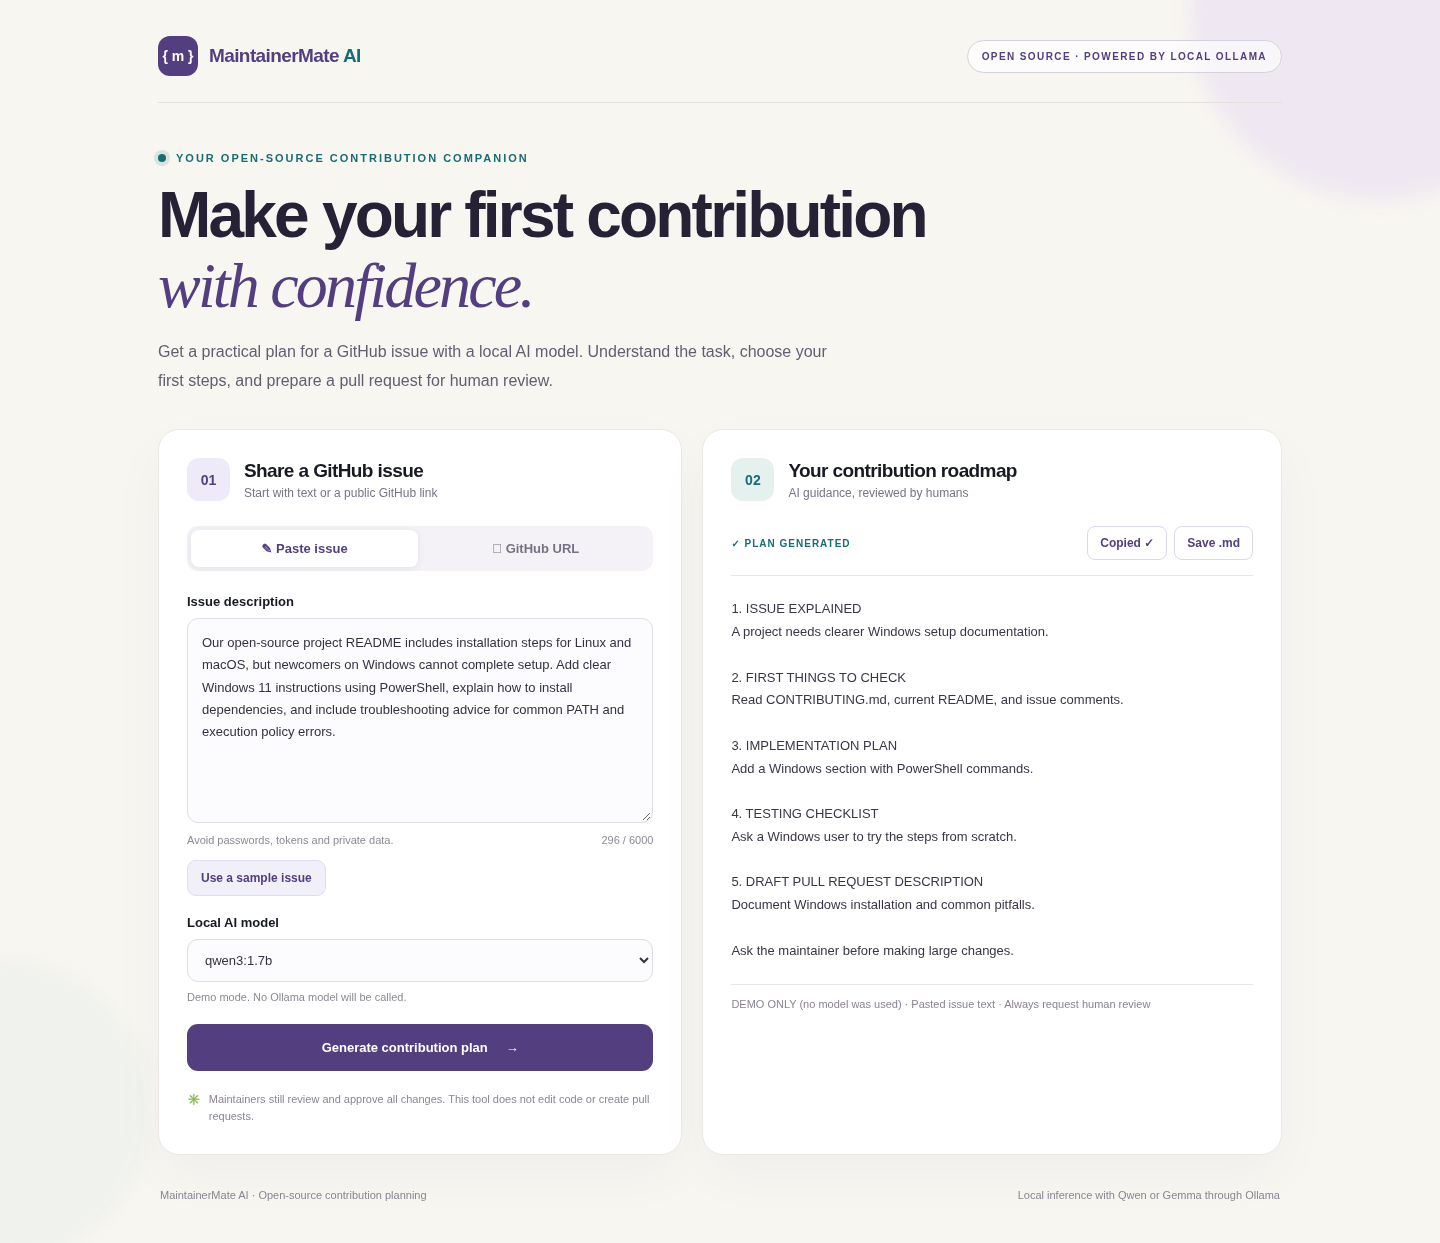
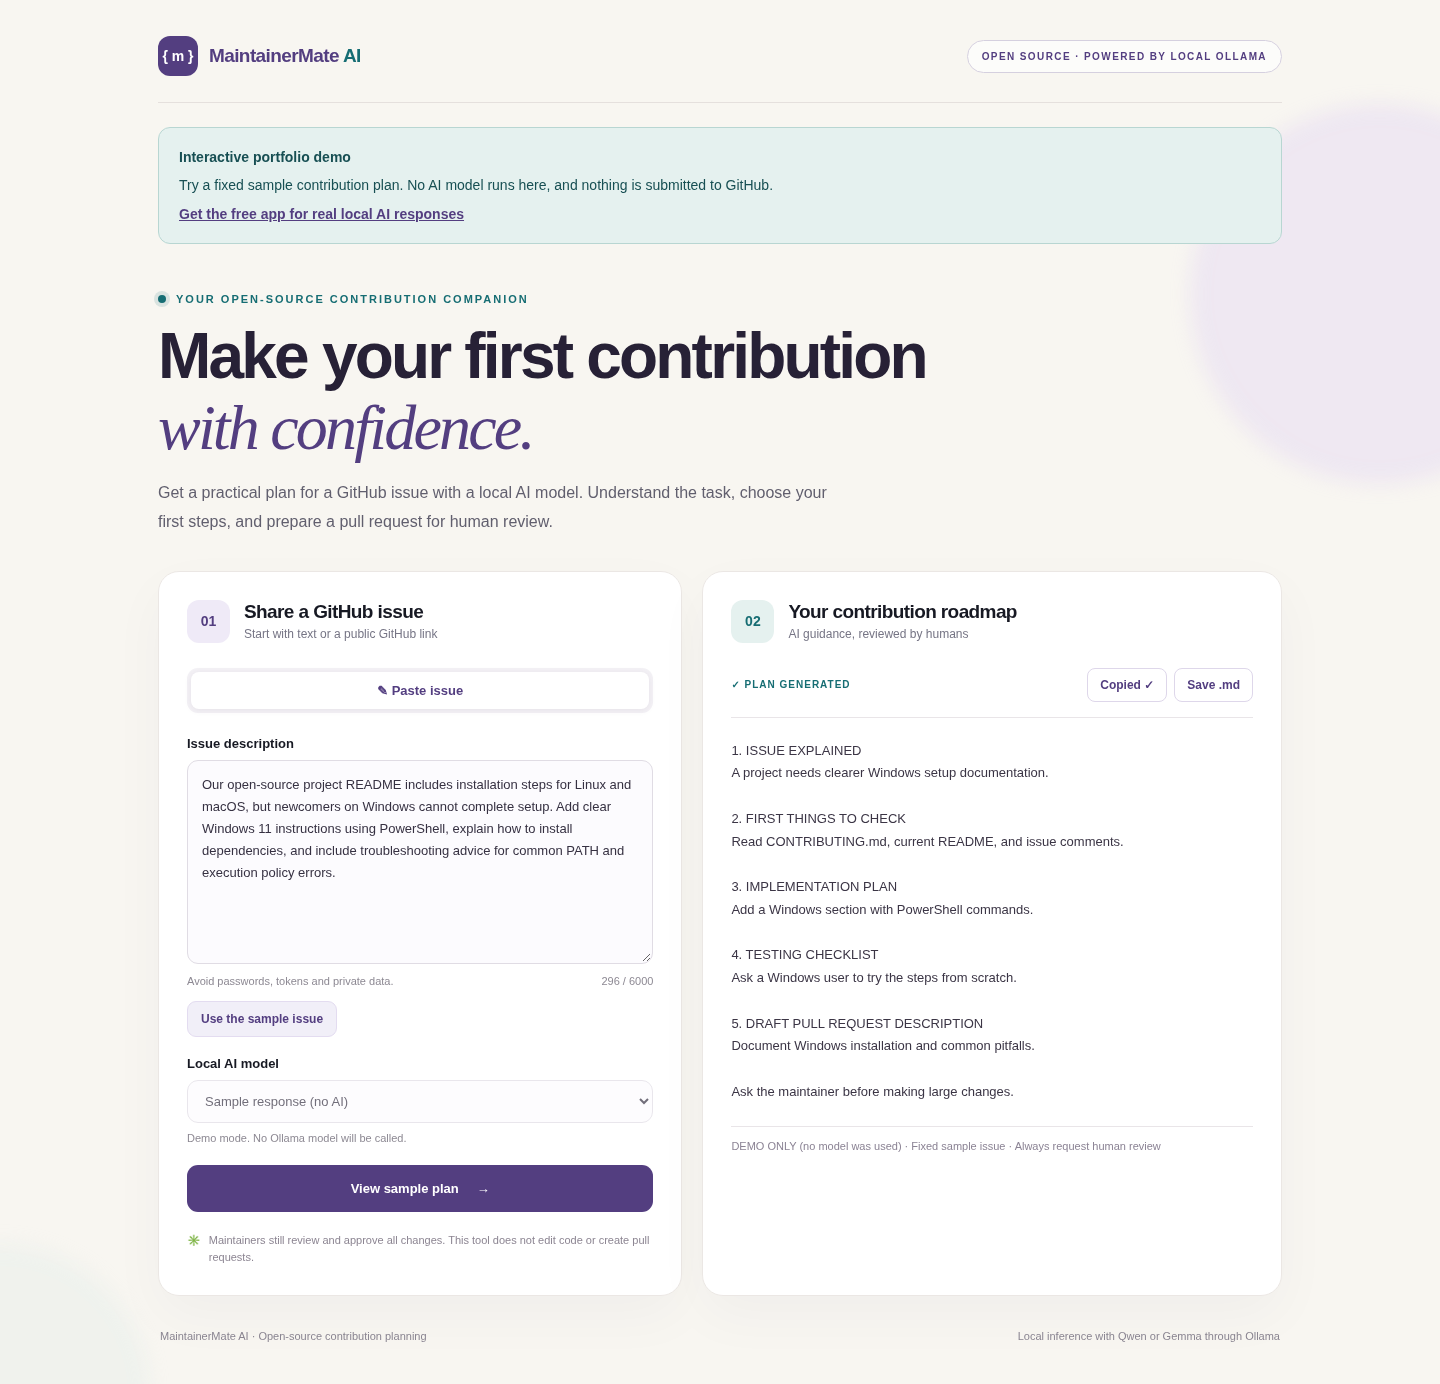
Add free sample-only GitHub Pages visitor demo

diff --git a/app/static/style.css b/app/static/style.css
@@ -1,2 +1,4 @@
 :root{--iris:#533E80;--ink:#171923;--porcelain:#F8F6F1;--teal:#166D73;--amber:#E9AC4E;--muted:#767585;--line:#e9e5e8}*{box-sizing:border-box}body{margin:0;background:var(--porcelain);color:var(--ink);font-family:Inter,ui-sans-serif,-apple-system,BlinkMacSystemFont,"Segoe UI",sans-serif;overflow-x:hidden}button,input,textarea{font:inherit}.background-orb{position:fixed;border-radius:50%;pointer-events:none;filter:blur(10px);opacity:.25}.orb-one{width:380px;height:380px;background:#d3bef5;top:-180px;right:-130px}.orb-two{width:300px;height:300px;background:#d6e7e4;bottom:-160px;left:-150px}.shell{max-width:1180px;margin:auto;padding:24px 28px;position:relative}.masthead{display:flex;align-items:center;justify-content:space-between;gap:15px;padding:12px 0 26px;border-bottom:1px solid #e5e0dd}.brand{display:flex;align-items:center;gap:11px;color:var(--iris);font-size:19px;font-weight:800;letter-spacing:-.6px}.brand-icon{display:grid;place-items:center;width:40px;height:40px;border-radius:12px;background:var(--iris);color:#fff;font-size:14px;letter-spacing:0}.brand-suffix{color:var(--teal)}.hack-tag{border:1px solid #d5d0df;border-radius:100px;font-size:10px;letter-spacing:1.4px;font-weight:800;padding:10px 14px;color:var(--iris);background:#ffffff9c}.hero{padding:49px 0 34px;max-width:770px}.eyebrow{display:flex;gap:10px;align-items:center;color:var(--teal);font-size:11px;font-weight:800;letter-spacing:2px}.pulse{width:8px;height:8px;border-radius:50%;background:var(--teal);box-shadow:0 0 0 4px #166d7323}.hero h1{font-size:clamp(36px,5.2vw,64px);line-height:1.1;letter-spacing:-2.8px;margin:16px 0;color:#272136}.hero h1 em{font-family:Georgia,serif;color:var(--iris);font-weight:400}.hero p{max-width:680px;font-size:16px;line-height:1.8;color:#615f6e;margin:0}.workspace{display:grid;grid-template-columns:.95fr 1.05fr;gap:20px}.panel{background:#fff;border:1px solid #ebe7e4;border-radius:21px;box-shadow:0 20px 55px #28154809;padding:28px;min-height:570px}.panel-heading{display:flex;align-items:center;gap:14px;margin-bottom:25px}.step-number{display:grid;place-items:center;width:43px;height:43px;border-radius:12px;background:#efeaf7;color:var(--iris);font-weight:800;font-size:14px}.step-number.alt{background:#e5f1ef;color:var(--teal)}.panel h2{font-size:19px;letter-spacing:-.6px;margin:0 0 4px}.panel-heading p{color:var(--muted);font-size:12px;margin:0}.tab-buttons{padding:4px;background:#f4f2f6;border-radius:11px;display:flex;gap:4px;margin-bottom:23px}.tab{border:0;cursor:pointer;background:transparent;color:#777184;padding:11px 14px;border-radius:8px;flex:1;font-size:13px;font-weight:700}.tab.selected{background:white;color:var(--iris);box-shadow:0 1px 7px #47325416}.field{margin-bottom:20px}.field label{display:block;font-size:13px;font-weight:750;margin-bottom:9px}.field textarea,.field input{width:100%;border:1px solid #e0dce4;background:#fcfbfe;border-radius:11px;outline:none;padding:13px 14px;font-size:13px;line-height:1.7;color:#363142;transition:border-color .15s}.field textarea{resize:vertical;min-height:181px}.field textarea:focus,.field input:focus{border-color:#8a75bc;box-shadow:0 0 0 3px #533e8011}.field .hint{font-size:11px;color:#8d8993;margin-top:7px;display:block}.code-field{margin-bottom:18px}.primary-button{background:var(--iris);color:#fff;border:0;width:100%;border-radius:11px;padding:16px;display:flex;justify-content:center;gap:18px;align-items:center;font-weight:750;font-size:13px;cursor:pointer;transition:transform .15s,background .15s}.primary-button:hover{background:#403064;transform:translateY(-1px)}.primary-button:disabled{opacity:.65;cursor:wait;transform:none}.footnote{color:#8c8592;font-size:11px;line-height:1.6;margin-top:20px;display:flex;gap:8px}.footnote span{color:var(--amber)}.result-panel{display:flex;flex-direction:column}.result-empty,.loading-state{display:flex;flex:1;align-items:center;justify-content:center;flex-direction:column;text-align:center;padding:38px}.empty-icon{color:var(--iris);display:grid;place-items:center;background:linear-gradient(150deg,#efeaf7,#fbf9fd);border:1px solid #e7e0f0;border-radius:28px;width:104px;height:104px;font-size:45px}.result-empty h3{font-size:18px;margin:23px 0 4px}.result-empty p{font-size:13px;line-height:1.8;max-width:340px;color:#8a8494}.mini-chip{margin-top:15px;background:#f3f1f7;color:var(--iris);font-weight:750;font-size:10px;letter-spacing:1px;padding:10px 14px;border-radius:100px}.hidden{display:none!important}.loading-state p{color:var(--muted);font-size:13px}.loader{width:40px;height:40px;border:4px solid #e8dff4;border-top-color:var(--iris);border-radius:50%;animation:spin .8s linear infinite}@keyframes spin{to{transform:rotate(360deg)}}.result-topline{display:flex;justify-content:space-between;align-items:center;gap:12px;border-bottom:1px solid var(--line);padding-bottom:15px}.success-chip{font-size:10px;letter-spacing:1px;font-weight:800;color:var(--teal)}.copy-button{font-weight:700;font-size:12px;color:var(--iris);border:1px solid #ded7ea;border-radius:8px;background:white;padding:9px 12px;cursor:pointer}#result-text{white-space:pre-wrap;word-break:break-word;font-family:inherit;font-size:13px;line-height:1.75;margin:22px 0;max-height:460px;overflow-y:auto;color:#3b3545}.result-meta{color:#8b8394;border-top:1px solid var(--line);padding-top:13px;font-size:11px}.error-message{margin-top:30px;background:#fff3f1;color:#9b3d2f;border:1px solid #f3ccc4;border-radius:12px;padding:16px;font-size:13px;line-height:1.6}footer{display:flex;justify-content:space-between;gap:16px;color:#898490;font-size:11px;padding:34px 2px 18px}@media(max-width:800px){.workspace{grid-template-columns:1fr}.panel{min-height:450px}.hero{padding-top:34px}.shell{padding:15px}.hack-tag{font-size:8px;letter-spacing:.7px}.hero h1{letter-spacing:-1.8px}footer{flex-direction:column}.result-panel{min-height:480px}}@media(max-width:410px){.hack-tag{display:none}.panel{padding:20px}.tab{font-size:11px;padding:10px}}
 .secondary-button{display:inline-flex;align-items:center;justify-content:center;cursor:pointer;background:#f1eff8;color:var(--iris);border:1px solid #e3dcf0;border-radius:9px;padding:10px 13px;font-weight:700;font-size:12px;margin-top:-6px;margin-bottom:19px}.secondary-button:hover{background:#e8e1f5}.model-field{margin-bottom:18px}.field select{width:100%;border:1px solid #e0dce4;background:#fcfbfe;border-radius:11px;outline:none;padding:12px 13px;color:#363142;font-size:13px}.model-field .hint{line-height:1.5;margin:7px 0 0}.field-bottom{display:flex;justify-content:space-between;gap:9px}.actions{display:flex;gap:7px}.loading-state small{display:inline-block;padding-top:6px;color:#9690a1}
+
+.demo-banner{margin-top:24px;padding:18px 20px;background:#e5f1ef;border:1px solid #b8d6d2;border-radius:12px;color:#174f53;font-size:14px;line-height:1.6}.demo-banner p{margin:6px 0}.demo-banner a{color:var(--iris);font-weight:700}

diff --git a/app/static/app.js b/app/static/app.js
@@ -1,6 +1,26 @@
 const el = id => document.getElementById(id);
 const EXAMPLE = 'Our open-source project README includes installation steps for Linux and macOS, but newcomers on Windows cannot complete setup. Add clear Windows 11 instructions using PowerShell, explain how to install dependencies, and include troubleshooting advice for common PATH and execution policy errors.';
+const STATIC_DEMO = document.documentElement.dataset.demo === 'true';
+const runLabel = STATIC_DEMO ? 'View sample plan' : 'Generate contribution plan';
 let mode = 'paste';
+
+if (STATIC_DEMO) {
+  el('demo-banner').classList.remove('hidden');
+  el('issue-text').value = EXAMPLE;
+  el('issue-text').readOnly = true;
+  el('url-tab').classList.add('hidden');
+  el('sample-button').textContent = 'Use the sample issue';
+  el('model-select').disabled = true;
+  el('run-label').textContent = runLabel;
+  el('result-loading').querySelector('p').textContent = 'Loading the sample contribution plan…';
+}
+
+async function loadDemoPlan() {
+  const response = await fetch('./demo-plan.json');
+  if (!response.ok) throw new Error('The sample could not load. Please refresh and try again.');
+  return response.json();
+}
+
 
 function setMode(next) {
   mode = next;
@@ -32,7 +52,9 @@ el('sample-button').addEventListener('click', () => {
 
 async function checkModels() {
   try {
-    const response = await fetch('/health');
+    const response = STATIC_DEMO
+      ? {ok: true, json: async () => ({status: 'mock', models: [], default_model: 'Sample response (no AI)'})}
+      : await fetch('/health');
     if (!response.ok) throw new Error('Health request failed');
     const data = await response.json();
     const select = el('model-select');
@@ -70,13 +92,18 @@ el('analyze-form').addEventListener('submit', async event => {
     showState('error'); return;
   }
   el('run-button').disabled = true;
-  el('run-label').textContent = 'Generating contribution plan…';
+  el('run-label').textContent = STATIC_DEMO ? 'Loading sample…' : 'Generating contribution plan…';
   el('copy-button').textContent = 'Copy';
   showState('loading');
   try {
-    const response = await fetch('/api/analyze', {method: 'POST', headers: {'Content-Type': 'application/json'}, body: JSON.stringify(payload)});
-    const data = await response.json();
-    if (!response.ok) throw new Error(typeof data.detail === 'string' ? data.detail : 'Please check the issue and try again.');
+    let data;
+    if (STATIC_DEMO) {
+      data = await loadDemoPlan();
+    } else {
+      const response = await fetch('/api/analyze', {method: 'POST', headers: {'Content-Type': 'application/json'}, body: JSON.stringify(payload)});
+      data = await response.json();
+      if (!response.ok) throw new Error(typeof data.detail === 'string' ? data.detail : 'Please check the issue and try again.');
+    }
     // Model output remains literal text. Never interpolate it into HTML.
     el('result-text').textContent = data.analysis;
     el('result-meta').textContent = `${data.model} · ${data.issue_source} · Always request human review`;
@@ -86,19 +113,20 @@ el('analyze-form').addEventListener('submit', async event => {
     showState('error');
   } finally {
     el('run-button').disabled = false;
-    el('run-label').textContent = 'Generate contribution plan';
+    el('run-label').textContent = runLabel;
   }
 });
 
 el('copy-button').addEventListener('click', async () => {
   try {
-    await navigator.clipboard.writeText(el('result-text').textContent);
+    const attribution = STATIC_DEMO ? 'Sample response — no AI model was used.\n\n' : '';
+    await navigator.clipboard.writeText(attribution + el('result-text').textContent);
     el('copy-button').textContent = 'Copied ✓';
   } catch { el('copy-button').textContent = 'Select to copy'; }
 });
 
 el('download-button').addEventListener('click', () => {
-  const content = `# MaintainerMate contribution plan\n\n${el('result-text').textContent}\n\n---\nDraft guidance. Request human maintainer review.\n`;
+  const content = `# MaintainerMate contribution plan\n\n${el('result-meta').textContent}\n\n${el('result-text').textContent}\n\n---\nDraft guidance. Request human maintainer review.\n`;
   const file = new Blob([content], {type:'text/markdown;charset=utf-8'});
   const url = URL.createObjectURL(file);
   const anchor = document.createElement('a');

diff --git a/app/static/index.html b/app/static/index.html
@@ -15,6 +15,11 @@
       <span class="hack-tag">OPEN SOURCE · POWERED BY LOCAL OLLAMA</span>
     </header>
     <main>
+      <aside id="demo-banner" class="demo-banner hidden" aria-label="About this demo">
+        <strong>Interactive portfolio demo</strong>
+        <p>Try a fixed sample contribution plan. No AI model runs here, and nothing is submitted to GitHub.</p>
+        <a href="https://github.com/graceomolola001-cmyk/maintainermate#in-your-browser">Get the free app for real local AI responses</a>
+      </aside>
       <section class="hero">
         <div class="eyebrow"><span class="pulse"></span> YOUR OPEN-SOURCE CONTRIBUTION COMPANION</div>
         <h1>Make your first contribution<br /><em>with confidence.</em></h1>

diff --git a/app/main.py b/app/main.py
@@ -4,6 +4,7 @@ Run locally only: uvicorn app.main:app --host 127.0.0.1 --port 8000
 """
 from __future__ import annotations
 
+import json
 import os
 import re
 from pathlib import Path
@@ -16,6 +17,7 @@ from fastapi.staticfiles import StaticFiles
 from pydantic import BaseModel, Field
 
 APP_DIR = Path(__file__).resolve().parent
+DEMO_PLAN = json.loads((APP_DIR / "demo-plan.json").read_text(encoding="utf-8"))
 DEFAULT_MODEL = "qwen3:1.7b"
 OLLAMA_URL = "http://127.0.0.1:11434"
 ISSUE_URL_RE = re.compile(r"^/([A-Za-z0-9_.-]+)/([A-Za-z0-9_.-]+)/issues/([0-9]+)/?$", re.I)
@@ -201,13 +203,7 @@ async def analyze(payload: AnalyzeRequest):
 
     if os.environ.get("MOCK_AI", "").lower() == "true":
         return AnalyzeResponse(
-            model="DEMO ONLY (no model was used)", issue_source=source,
-            analysis=("1. ISSUE EXPLAINED\nA project needs clearer Windows setup documentation.\n\n"
-                      "2. FIRST THINGS TO CHECK\nRead CONTRIBUTING.md, current README, and issue comments.\n\n"
-                      "3. IMPLEMENTATION PLAN\nAdd a Windows section with PowerShell commands.\n\n"
-                      "4. TESTING CHECKLIST\nAsk a Windows user to try the steps from scratch.\n\n"
-                      "5. DRAFT PULL REQUEST DESCRIPTION\nDocument Windows installation and common pitfalls.\n\n"
-                      "Ask the maintainer before making large changes."),
+            model=DEMO_PLAN["model"], issue_source=source, analysis=DEMO_PLAN["analysis"],
         )
 
     output = await query_ollama(issue, model)

diff --git a/tests/test_demo.py b/tests/test_demo.py
@@ -1,0 +1,27 @@
+"""Check the standalone demo artifact without requiring an AI backend."""
+import json
+from pathlib import Path
+
+from scripts.build_demo import build
+
+
+def test_demo_build_supports_project_site_paths(tmp_path):
+    output = tmp_path / 'maintainermate'
+    build(output)
+    html = (output / 'index.html').read_text(encoding='utf-8')
+    assert 'data-demo="true"' in html
+    assert 'href="./style.css"' in html
+    assert 'src="./app.js"' in html
+    assert '/static/' not in html
+    assert 'Interactive portfolio demo' in html
+    assert 'No AI model runs here' in html
+    for name in ['index.html', 'style.css', 'app.js', 'demo-plan.json', '.nojekyll']:
+        assert (output / name).is_file()
+    sample = json.loads((output / 'demo-plan.json').read_text(encoding='utf-8'))
+    assert 'DEMO ONLY' in sample['model']
+    assert sample['issue_source'] == 'Fixed sample issue'
+    assert 'IMPLEMENTATION PLAN' in sample['analysis']
+    # Rebuilding into an existing directory is safe and reproducible.
+    initial = {p.name: p.read_bytes() for p in output.iterdir()}
+    build(output)
+    assert initial == {p.name: p.read_bytes() for p in output.iterdir()}

diff --git a/scripts/build_demo.py b/scripts/build_demo.py
@@ -1,0 +1,25 @@
+"""Build a static, sample-only portfolio demo using the app's existing frontend."""
+from pathlib import Path
+import shutil
+
+ROOT = Path(__file__).resolve().parents[1]
+
+
+def build(output: Path) -> None:
+    output.mkdir(parents=True, exist_ok=True)
+    assets = ROOT / 'app' / 'static'
+    html = (assets / 'index.html').read_text(encoding='utf-8')
+    html = html.replace('<html lang="en">', '<html lang="en" data-demo="true">')
+    html = html.replace('/static/style.css', './style.css').replace('/static/app.js', './app.js')
+    html = html.replace('<title>MaintainerMate AI | Open-source issue assistant</title>',
+                        '<title>Try MaintainerMate AI | Sample demo</title>')
+    (output / 'index.html').write_text(html, encoding='utf-8')
+    for name in ['app.js', 'style.css']:
+        shutil.copyfile(assets / name, output / name)
+    shutil.copyfile(ROOT / 'app' / 'demo-plan.json', output / 'demo-plan.json')
+    (output / '.nojekyll').touch()
+
+
+if __name__ == '__main__':
+    build(ROOT / '_site')
+    print('Built the sample-only demo in _site/')

diff --git a/README.md b/README.md
@@ -5,7 +5,7 @@
 
 Turn a GitHub issue into a contribution plan using a local AI model. Built with **Python, FastAPI, JavaScript, and Ollama**, MaintainerMate helps open-source contributors understand an issue and decide what to do next.
 
-**Free to run locally. No paid AI API, API key, or hosted account required.** You supply your computer and an installed Ollama model. GitHub hosts the source; this repository does not include a publicly hosted AI service.
+**Free to run locally. No paid AI API, API key, or hosted account required.** You supply your computer and an installed Ollama model. GitHub hosts the source. A free GitHub Pages demo can show sample responses; real AI runs locally through Ollama.
 
 ## What it does
 
@@ -20,6 +20,33 @@ It does not inspect repository code, modify files, execute tests for you, or sub
 ![MaintainerMate demo interface](docs/demo.png)
 
 The screenshot shows demo mode with a fixed example response, not live AI output.
+
+## In your browser
+
+The portfolio demo lets visitors try the interface without installing Python or Ollama. It displays one fixed, clearly labelled sample plan. It does not analyze arbitrary issues or contact your laptop.
+
+Once GitHub Pages has been enabled and the deployment workflow has succeeded, open:
+**https://graceomolola001-cmyk.github.io/maintainermate/**
+
+Click **View sample plan**, then try **Copy** or **Save .md**. For real AI responses, follow the local setup instructions below.
+
+### Enable the free portfolio demo (repository owner)
+
+1. Merge the demo changes into `main`.
+2. Open the repository's **Settings → Pages** and select **GitHub Actions** as the build and deployment source.
+3. Open **Actions → Deploy portfolio demo → Run workflow**, choose `main`, and run it. Subsequent pushes to `main` redeploy automatically.
+4. Wait for both build and deployment to succeed, then open the URL shown by the deployment. Before deployment succeeds, the address may return 404.
+
+This uses GitHub Pages for a public repository and needs no paid AI service or secret. It publishes only static demo assets, not FastAPI or Ollama. If GitHub requires approval for the `github-pages` environment, approve that deployment in the repository.
+
+To preview the same static demo locally:
+
+```powershell
+python scripts/build_demo.py
+python -m http.server 8080 --bind 127.0.0.1 --directory _site
+```
+
+Open **http://127.0.0.1:8080**. To run real AI, use the FastAPI instructions below instead.
 
 ## Requirements
 
@@ -143,7 +170,8 @@ app/
   main.py             API, validation, model prompt, Ollama client
   static/             HTML, CSS, JavaScript; no build step
 tests/                Mocked API tests and server smoke test
-.github/              CI, issue templates, pull request template
+.github/              Test CI, Pages deployment, contribution templates
+scripts/build_demo.py  Builds the sample-only portfolio site in _site/
 setup.ps1, start.ps1  Optional Windows helpers
 ```
 
@@ -155,4 +183,4 @@ See [CONTRIBUTING.md](CONTRIBUTING.md) for setup and contribution guidelines. Bu
 
 Licensed under the [MIT License](LICENSE). Ollama and model weights have their own licenses; they are not bundled with this repository.
 
-This app is designed for localhost. It has no authentication or rate limiting: do not expose the FastAPI or Ollama ports to the internet. GitHub Pages cannot run the Python backend or Ollama. You can showcase this repository and a demo recording in your portfolio without paying for hosting.
+This app is designed for localhost. It has no authentication or rate limiting: do not expose the FastAPI or Ollama ports to the internet. The Pages demo serves fixed sample content; GitHub Pages cannot run the Python backend or Ollama. You can showcase this repository and a demo recording in your portfolio without paying for hosting.
